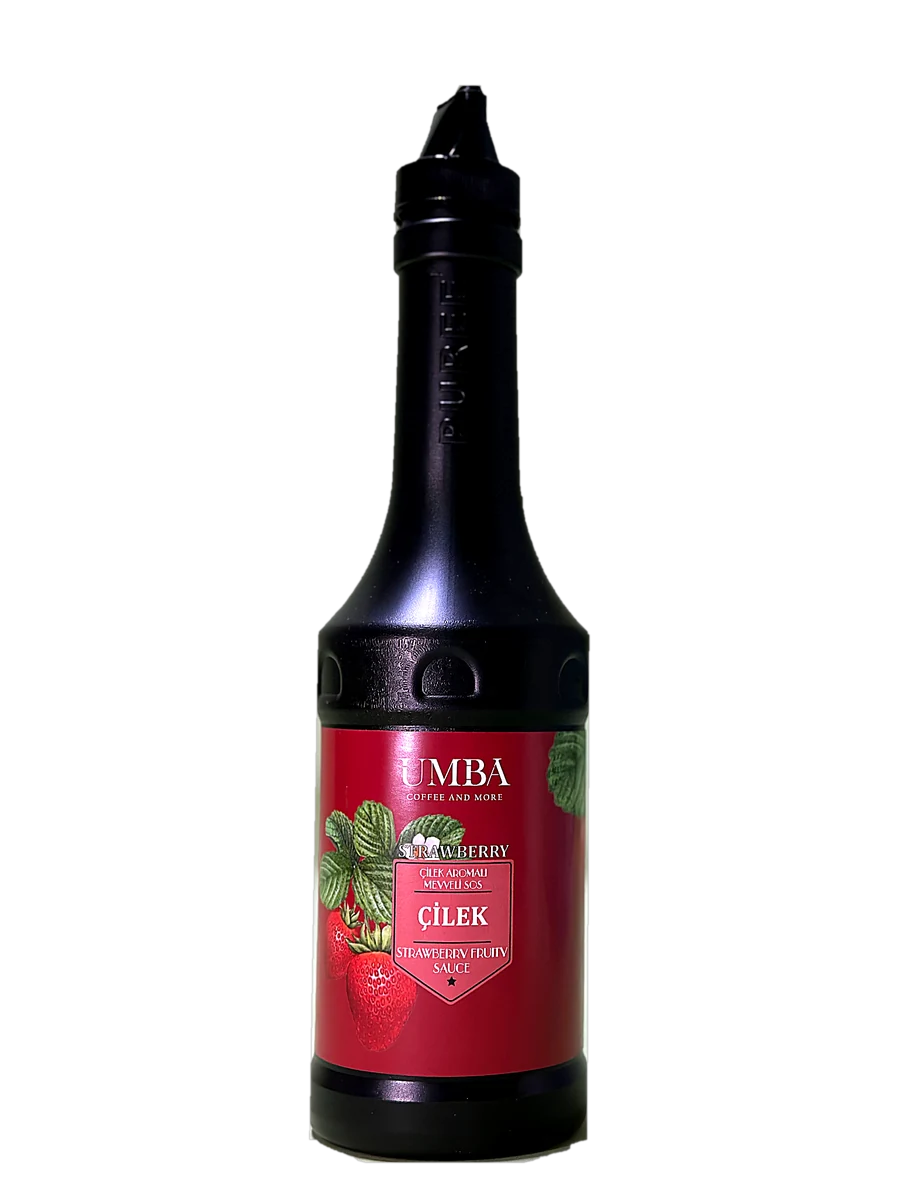
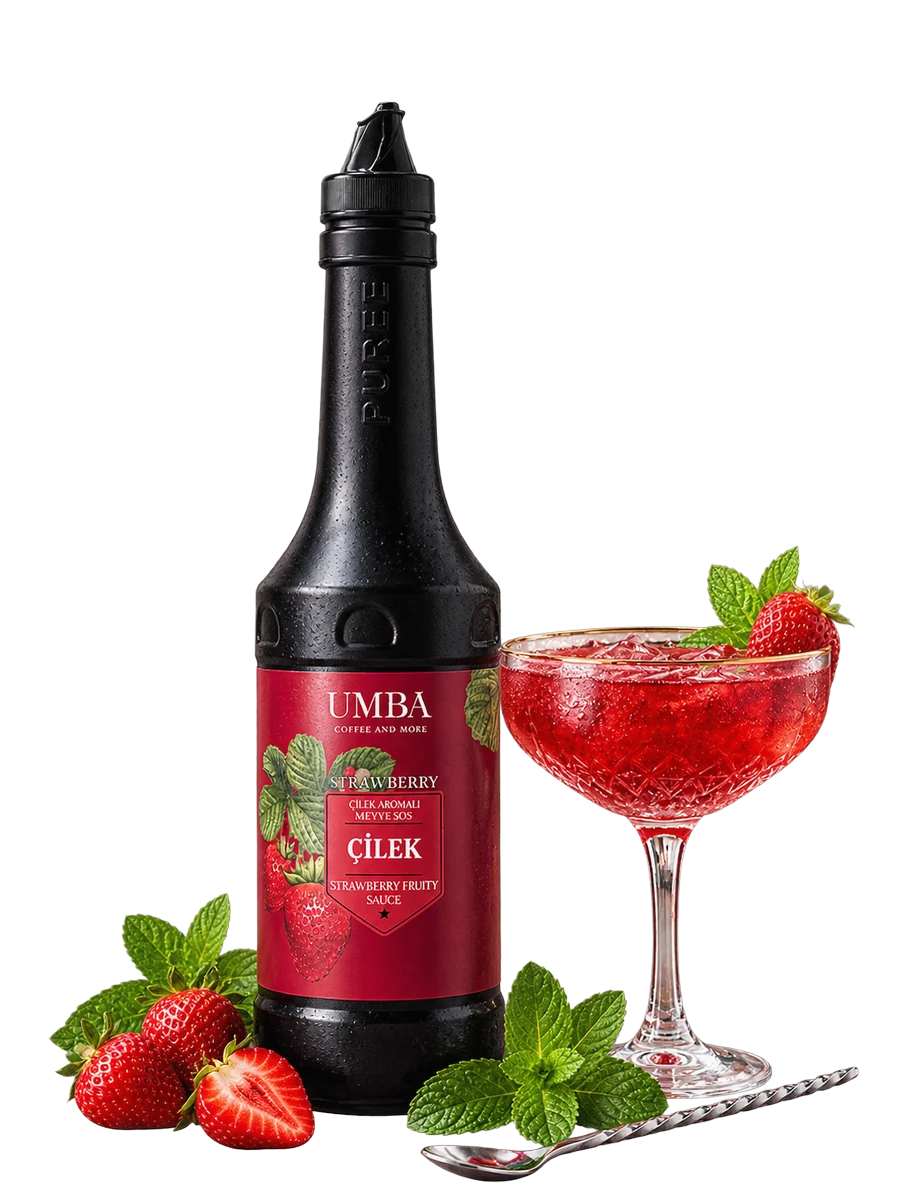
Çilek Püresi: tek şeffaf kompozisyon görseli (şişe + kokteyl) her yerde
Claude-Session: https://claude.ai/code/session_019xzkHgQGHpR7kaDZ1Jq9RT

diff --git a/src/lib/products.ts b/src/lib/products.ts
@@ -474,10 +474,7 @@ export const products: Product[] = [
     name: "Çilek Püresi",
     color: "#b4232f",
     color2: "#7a1420",
-    image: "/products/cilek-puresi-sahne.webp",
-    imageFit: "cover",
-    imageHover: "/products/cilek-puresi.webp",
-    imageCutout: "/products/cilek-puresi.webp",
+    image: "/products/cilek-puresi.webp",
     short: "Yüksek meyveli çilek; smoothie ve frozen bazı.",
     description:
       "Olgun çileklerden hazırlanan, gerçek meyve parçacıklı çilek püresi. Smoothie, frozen, milkshake ve çilekli limonata için; damlatmayan dozaj kapaklı 1 L şişede.",
